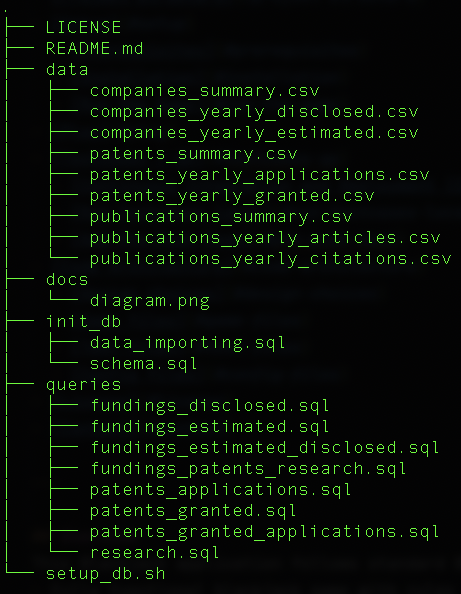
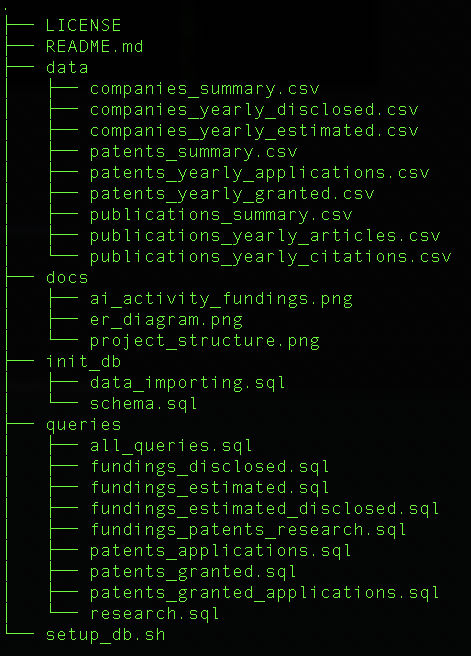
updated readme.md and minor adaptions

diff --git a/README.md b/README.md
@@ -1,14 +1,100 @@
 # Global AI Activity Tracking DB
+[![SQLite Version](https://img.shields.io/badge/SQLite-3.8%2B-brightgreen)]() [![Bash](https://img.shields.io/badge/Bash-Supported-blue)]()  [![License](https://img.shields.io/badge/license-MIT-blue)]() [![Last Updated](https://img.shields.io/badge/Last%20Updated-January%202025-orange)]()  
 
-By Peter
 
-Video overview: [(https://youtu.be/AhGf7PMjHfk)]
+
+A structured SQLite-based database designed to capture, analyze, and track global AI trends, including patent filings, academic publications, and financial investments. Gain insights into the evolving AI landscape with a scalable and optimized schema for cross-country and field-specific analysis.
 
 ---
 
-## Scope
+![DB_snapshot](docs/ai_activity_fundings.png)
 
-The primary purpose of this database is to capture and track global AI-related activity across multiple dimensions, including intellectual property (patent applications and grants), academic output (research publications), and financial investments (both disclosed and estimated). Data source a is a set of `.csv` files published by the “Emerging Technology Observatory” at Georgetown University. (https://cat.eto.tech/)
+---
+## Table of Contents
+- [Overview](#overview)  
+- [Project Structure](#project-structure)
+- [Features](#features)
+- [Setup](#setup)
+  - [Prerequisites](#prerequisites)
+  - [Installation](#installation)
+  - [Use the DB](#use-the-db)
+- [Scope & Data](#scope--data)
+- [Representation](#representation)
+  - [Entities](#entities)
+  - [Relationships](#relationships)
+- [Provided Queries](#provided-queries)
+- [Architecture](#architecture)  
+  - [General](#general)
+  - [Optimizations](#optimizations)
+  - [Data processing / Importing](#data-processing--importing)
+- [Data Attribution](#data-attribution)
+- [License](#license)  
+- [Contact](#contact)
+
+---
+
+## Overview
+A structured SQLite database to track global AI trends, featuring:
+- Cross-country and field-specific insights on patents, investments, and publications.
+- Time-series analysis to monitor AI growth year by year.
+- Optimized schema for efficient querying with pre-defined SQL queries.
+- Data sourced from the [Emerging Technology Observatory](https://cat.eto.tech/) in Dez. 2024.
+
+---
+## Features
+- **Comprehensive Coverage**: Tracks AI activity through patents, investments, and publications.
+- **Scalable Schema**: Normalized tables for efficiency and ease of maintenance.
+- **Pre-built Queries**: Includes pre-written SQL files for common analyses.
+- **Open Data Source**: Uses public domain data for transparency and reproducibility.
+---
+
+## Project Structure
+![Project Structure](docs/project_structure.png)
+
+---
+
+## Setup
+
+### Prerequisites
+- SQLite 3.8+
+- A terminal or command-line interface
+
+### Installation
+1. Clone the repository:
+```bash
+git clone https://github.com/kenobijr/global_ai_activity.git
+cd global_ai_activity
+```
+#### Option 1: Automatic Setup
+1. Make the provided bash script executable:
+```bash
+chmod +x setup_db.sh
+```
+2. Run the script:
+```bash
+bash setup_db.sh
+```
+#### Option 2: Manual Setup
+1.	Create the database schema:
+```bash
+sqlite3 ai_activity.db < init_db/schema.sql
+```
+2. Import the data:
+```bash
+sqlite3 ai_activity.db < init_db/data_importing.sql
+```
+
+### Use the DB
+You can now use SQLite or any database client to interact with the ai_activity.db database and run queries
+```bash
+sqlite3 ai_activity.db
+```
+---
+
+## Scope & Data
+
+The primary purpose of this database is to capture and track global AI-related activity across multiple dimensions, including intellectual property (patent applications and grants), academic output (research publications), and financial investments (both disclosed and estimated). Data source a is a set of `.csv` files published by the “Emerging Technology Observatory” at Georgetown University. (https://cat.eto.tech/).
+The raw CSV data was downloaded from the Emerging Technology Observatory in **Dez. 2024**. Check out this page for more information about the data source: https://eto.tech/dataset-docs/country-ai-activity-metrics/.
 
 **In-Scope Entities**
 - **Countries**: Each country in the world (or in the data source) that participates in AI-related activities, such as patent filing and research publications.
@@ -18,40 +104,21 @@ The primary purpose of this database is to capture and track global AI-related a
 - **Yearly Publications**: Research articles published in AI fields, aggregated by country, field, and year.
 
 **Out-of-Scope**
-- **Granular Company-Specific Details**: While we track annual disclosed and estimated investments, we do not store the names or profiles of individual AI companies.
+- **Granular Company-Specific Details**: While annual disclosed and estimated investments are tracked, no names or profiles of individual AI companies are stored.
 - **Detailed Patent Metadata**: Patent text, claim details, or patent examiners’ information are not included.
-- **Research Article Citation Networks**: We only store aggregated publication counts, not citation references or co-author networks.
-- **Demographic or Socio-Economic Data**: Although these factors might influence AI activity, we do not track population data, GDP, or demographic distribution here.
-
-By keeping the data model focused on macro-level metrics—patent activity, publication counts, and investment flows a comprehensive but streamlined view of global AI dynamics is facilitated.
-
----
-
-## Functional Requirements
-
-The database is designed to facilitate:
-
-1. **Longitudinal Analysis**: Users can query patent, publication, and investment data across multiple years to identify trends, growth rates, and shifts in AI activity over time.
-2. **Cross-Country Comparisons**: Because we standardize data under a single schema, it becomes easy to compare the same metrics (e.g., patent grants, investment levels) across different countries.
-3. **Field-Specific Insights**: By segmenting the data by AI-related fields, analysts can see which specializations are driving research and where investments are flowing.
-4. **Data Quality Checks**: The `complete` column in each fact table allows users to distinguish between fully validated vs. partial or incomplete data. The predefined queries use all data.
-
-**Beyond the Scope**
-- **Real-Time Updates**: This database does not handle real-time streaming or event-based updates. Data is loaded in periodic batches (e.g., annually or quarterly).
-- **Advanced Predictive Modeling**: While the database can store historical data, advanced analytics or machine learning predictions must be performed outside the database itself, in a separate environment (e.g., Python notebooks or BI tools).
-- **Fine-Grained Company / Patent Tracking**: Users can’t do in-depth tracking of every single patent or investment transaction at a micro level.
+- **Research Article Citation Networks**: Aggregated publication counts are stored, but not citation references or co-author networks.
+- **Demographic or Socio-Economic Data**: Although these factors might influence AI activity, population data, GDP, or demographic distribution are not tracked here.
 
 ---
 
 ## Representation
 
 ### Entities
-
 The database is focused on six main tables representing different aspects of AI-related activity, plus auxiliary tables for reference data and views for optimized querying.
 
 1. **Countries**
    - **Attributes**: `id (INTEGER, PK)`, `name (TEXT, UNIQUE, NOT NULL)`
-   - **Reasoning**: A separate `countries` table wa created to avoid repeating country names throughout the dataset. The `id` is the primary key referenced by other tables. Uniqueness is enforced on the name to avoid duplicates.
+   - **Reasoning**: A separate `countries` table was created to avoid repeating country names throughout the dataset. The `id` is the primary key referenced by other tables. Uniqueness is enforced on the name to avoid duplicates.
 
 2. **Fields**
    - **Attributes**: `id (INTEGER, PK)`, `name (TEXT, UNIQUE, NOT NULL)`
@@ -95,7 +162,7 @@ The database is focused on six main tables representing different aspects of AI-
      - `year (INTEGER NOT NULL)`
      - `estimated_investment (INTEGER NOT NULL)`
      - `complete (TEXT CHECK(complete IN ("True","False")))`
-   - **Reasoning**: Some investments may not be fully disclosed publicly, so estimations are important for capturing the broader picture of AI funding. Disclosed fundings are included in it.
+   - **Reasoning**: Some investments may not be fully disclosed publicly, so estimations are important for capturing the broader picture of AI funding. Disclosed funding is included in it.
 
 7. **Publications Yearly Articles**
    - **Attributes**:
@@ -111,14 +178,58 @@ The database is focused on six main tables representing different aspects of AI-
 
 All fact tables (patents, investments, publications) share a consistent referencing of `countries.id` and `fields.id`.
 
-Below is a conceptual diagram (referenced by the template):
+Below is the ER-Diagram:
 
-![Country AI Activity per Research Field](diagram.png)
+![ER-Diagram](docs/er_diagram.png)
 
 ---
 
-## Optimizations
+## Provided Queries
+This project includes a collection of pre-written SQL queries in the dir [`/queries`](queries/) designed to analyze and explore the database. The whole collection is provided in [`all_queries.sql`](queries/all_queries.sql) All other .sql files provide one single query.
 
+- `all_queries.sql`: Combines all individual queries into one file for convenience.  
+- `fundings_disclosed.sql`: Analyze disclosed investments by country, year, and research field.  
+- `fundings_estimated.sql`: Extract estimated funding data for analysis of AI investments.  
+- `fundings_estimated_disclosed.sql`: Compare disclosed and estimated funding across countries and fields.  
+- `fundings_patents_research.sql`: Combine patents, investments, and publications for a comprehensive analysis.  
+- `patents_applications.sql`: Retrieve yearly patent applications grouped by country and research field.  
+- `patents_granted.sql`: Count granted patents across countries, fields, and years.  
+- `patents_granted_applications.sql`: Compare patent applications and grants by country, field, and year.  
+- `research.sql`: Explore research publication trends by country, field, and year.  
+
+How to use the Queries:
+
+### Option 1: Run Individual Queries
+You can run any specific query directly using the SQLite command-line interface. For example:
+```bash
+sqlite3 ai_activity.db < queries/fundings_disclosed.sql
+```
+### Option 2: Explore All Queries
+Run all provided queries at once using the combined all_queries.sql file:
+```bash
+sqlite3 ai_activity.db < queries/all_queries.sql
+```
+### Option 3: Copy and Paste Queries
+1.	Open any .sql file in a text editor or IDE.
+2.	Copy the desired query and execute it manually in the SQLite shell:
+```bash
+sqlite3 ai_activity.db
+```
+---
+
+## Architecture
+
+### General
+
+The database uses a normalized SQLite schema designed for scalability and efficiency:  
+- **Reference Tables**: `countries` and `fields` store unique country names and AI research fields, ensuring data consistency and avoiding redundancy.  
+- **Fact Tables**: Six main tables capture yearly metrics for patents (applications and grants), investments (disclosed and estimated), and research publications, each referencing the `countries` and `fields` tables.  
+- **Indexes**: Key columns like `year` are indexed for fast querying, especially for trend analysis.  
+- **Views**: Predefined views simplify access to commonly joined data, such as combining publication metrics with country and field names.  
+
+This modular design ensures the database is easy to query, maintain, and extend.  
+
+### Optimizations
 To enhance performance, especially when filtering by year, indexes on the `year` columns in each fact table were created:
 
 - `publications_per_year` on `publications_yearly_articles(year)`
@@ -127,29 +238,11 @@ To enhance performance, especially when filtering by year, indexes on the `year`
 - `applied_patents_per_year` on `patents_yearly_applications(year)`
 - `granted_patents_per_year` on `patents_yearly_granted(year)`
 
-These indexes significantly reduce query time for year-based filters, which are common when analyzing trends over time. Furthermore, implemented a **view** named `v_publications` was created to make it easier for users to select all publication records alongside descriptive country and field names, rather than performing manual joins each time.
+These indexes significantly reduce query time for year-based filters. Furthermore, implemented a **view** named `v_publications` was created to make it easier for users to select all publication records alongside descriptive country and field names, rather than performing manual joins each time.
 
----
+### Data processing / Importing
 
-## Limitations
-
-While this schema provides a robust foundation for tracking macro-level AI activity, there are notable limitations:
-
-1. **Lack of Granular Company-Level Detail**
-
-2. **Simplified Patent and Publication Data**: Actual patent documents or research articles are not housed here. Consequently, deeper textual or citation analyses are not possible in this design.
-
----
-
-## Creation / Data Source
-
-### Source / Citation
-
-The data originates from a set of `.csv` files published by the “Emerging Technology Observatory” at Georgetown University. Specifically, it’s derived from the “Emerging Technology Observatory Country Activity Tracker: Artificial Intelligence,” accessible at [https://cat.eto.tech/]. These files include annual, country-level metrics for patent filings, publication output, and investment flows in AI, thereby forming the core content of our database.
-
-### Data Processing / Importing
-
-To populate the database, each `.csv` is processed in a straightforward manner; the queries are saved in "data_importing.sql".
+To populate the database, each `.csv` will be imported; the queries are saved in "data_importing.sql".
 1. **Country and Field Reference Tables**: A cleaning script deduplicates and inserts each unique country or field into the respective tables.
 2. **Fact Tables**: Rows from the `.csv` files are inserted into the relevant fact tables (e.g., `patents_yearly_applications`, `patents_yearly_granted`) with references to the `id` of the corresponding country and field.
 3. **Normalization Decision**: Decision to normalize the data by separating countries and fields to reduce redundancy was taken. This design means that queries typically involve joins, but it also ensures that changes or corrections to country or field names are globally consistent.
@@ -158,3 +251,24 @@ Certain summary tables and publication citations were dropped from this initial 
 
 ---
 
+## Data Attribution
+This project uses data from the "Emerging Technology Observatory Country Activity Tracker: Artificial Intelligence," provided by the [Emerging Technology Observatory](https://cat.eto.tech/) (ETO) at Georgetown University , licensed under Creative Commons Attribution-NonCommercial 4.0.
+
+- [Dataset Documentation](https://eto.tech/dataset-docs/country-ai-activity-metrics/)
+- License: [CC BY-NC 4.0](https://creativecommons.org/licenses/by-nc/4.0/)
+
+This project is **non-commercial** and not affiliated with or endorsed by ETO.
+
+---
+
+## License
+This project is licensed under the MIT License. See the [LICENSE](LICENSE) file for more details.
+
+---
+
+## Contact
+Feel free to reach out for collaboration or questions:
+
+https://github.com/kenobijr
+
+[mail](mailto:22.scree_rhino@icloud.com)
